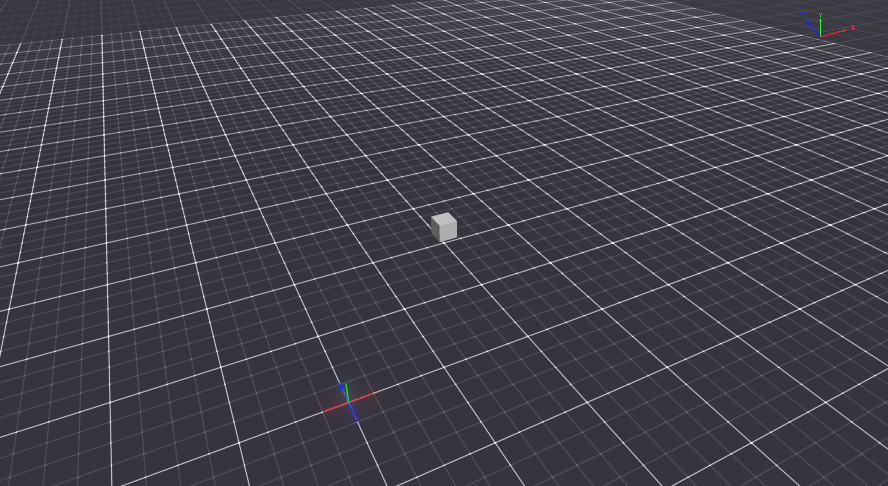
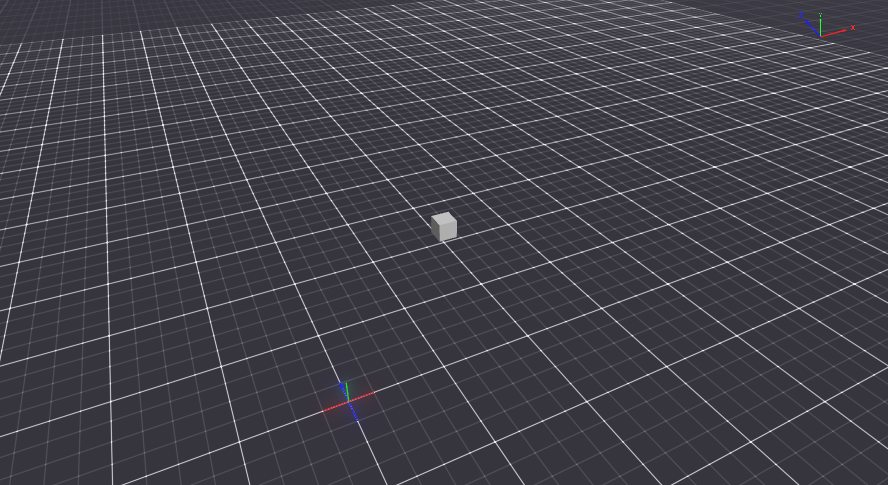
add locomotion

diff --git a/src/scenes/locomotion-test/index.tsx b/src/scenes/locomotion-test/index.tsx
@@ -1,0 +1,287 @@
+import {
+  engine,
+  Transform,
+  MeshRenderer,
+  MeshCollider,
+  Material,
+  TextShape,
+  pointerEventsSystem,
+  InputAction,
+  AvatarLocomotionSettings
+} from '@dcl/sdk/ecs'
+import { Color4, Vector3, Quaternion } from '@dcl/sdk/math'
+import ReactEcs, { Button, Label, type JSX, UiEntity } from '@dcl/sdk/react-ecs'
+import { UiBox } from '../../utils/ui/box'
+import { sceneEntities } from '../../utils/entity'
+
+// Default values (matching Godot's defaults)
+const DEFAULTS = {
+  walkSpeed: 1.5,
+  jogSpeed: 8.0,
+  runSpeed: 11.0,
+  jumpHeight: 1.8,
+  runJumpHeight: 1.8,
+  hardLandingCooldown: 0.0
+}
+
+// Current settings state for UI display
+let currentSettings = {
+  walkSpeed: undefined as number | undefined,
+  jogSpeed: undefined as number | undefined,
+  runSpeed: undefined as number | undefined,
+  jumpHeight: undefined as number | undefined,
+  runJumpHeight: undefined as number | undefined,
+  hardLandingCooldown: undefined as number | undefined,
+  zoneName: 'Default Zone'
+}
+
+// Zone configurations
+const zones = [
+  {
+    name: 'Default Zone',
+    position: Vector3.create(8, 0.1, 4),
+    color: Color4.Gray(),
+    settings: {} // Empty = use all defaults
+  },
+  {
+    name: 'Slow Walk Zone',
+    position: Vector3.create(4, 0.1, 8),
+    color: Color4.create(0.2, 0.5, 0.8, 1),
+    settings: {
+      walkSpeed: 0.5,
+      jogSpeed: 2.0,
+      runSpeed: 4.0
+    }
+  },
+  {
+    name: 'Super Speed Zone',
+    position: Vector3.create(12, 0.1, 8),
+    color: Color4.create(1, 0.8, 0.2, 1),
+    settings: {
+      walkSpeed: 4.0,
+      jogSpeed: 16.0,
+      runSpeed: 25.0
+    }
+  },
+  {
+    name: 'High Jump Zone',
+    position: Vector3.create(8, 0.1, 12),
+    color: Color4.create(0.2, 0.8, 0.3, 1),
+    settings: {
+      jumpHeight: 5.0,
+      runJumpHeight: 8.0
+    }
+  },
+  {
+    name: 'Moon Gravity Zone',
+    position: Vector3.create(4, 0.1, 12),
+    color: Color4.create(0.8, 0.3, 0.8, 1),
+    settings: {
+      walkSpeed: 2.0,
+      jogSpeed: 6.0,
+      runSpeed: 10.0,
+      jumpHeight: 4.0,
+      runJumpHeight: 6.0
+    }
+  },
+  {
+    name: 'Hard Landing Zone',
+    position: Vector3.create(12, 0.1, 12),
+    color: Color4.create(0.8, 0.2, 0.2, 1),
+    settings: {
+      jumpHeight: 3.0,
+      runJumpHeight: 4.0,
+      hardLandingCooldown: 2.0
+    }
+  }
+]
+
+function applySettings(settings: typeof zones[0]['settings'], zoneName: string): void {
+  currentSettings = {
+    walkSpeed: settings.walkSpeed,
+    jogSpeed: settings.jogSpeed,
+    runSpeed: settings.runSpeed,
+    jumpHeight: settings.jumpHeight,
+    runJumpHeight: settings.runJumpHeight,
+    hardLandingCooldown: settings.hardLandingCooldown,
+    zoneName
+  }
+
+  // Apply to root entity
+  if (Object.keys(settings).length === 0) {
+    // Remove component to reset to defaults (only if it exists)
+    if (AvatarLocomotionSettings.has(engine.RootEntity)) {
+      AvatarLocomotionSettings.deleteFrom(engine.RootEntity)
+    }
+  } else {
+    AvatarLocomotionSettings.createOrReplace(engine.RootEntity, settings)
+  }
+
+  console.log(`Applied locomotion settings for zone: ${zoneName}`, settings)
+}
+
+function resetToDefaults(): void {
+  applySettings({}, 'Default Zone')
+}
+
+function createZoneButton(zone: typeof zones[0]): void {
+  // Create floor platform
+  const platform = sceneEntities.addEntity()
+  Transform.create(platform, {
+    position: zone.position,
+    scale: Vector3.create(3, 0.2, 3)
+  })
+  MeshRenderer.setBox(platform)
+  MeshCollider.setBox(platform)
+  Material.setPbrMaterial(platform, {
+    albedoColor: zone.color
+  })
+
+  // Create clickable button on top
+  const button = sceneEntities.addEntity()
+  Transform.create(button, {
+    position: Vector3.create(zone.position.x, zone.position.y + 0.5, zone.position.z),
+    scale: Vector3.create(1.5, 0.8, 1.5)
+  })
+  MeshRenderer.setBox(button)
+  MeshCollider.setBox(button)
+  Material.setPbrMaterial(button, {
+    albedoColor: Color4.lerp(zone.color, Color4.White(), 0.3),
+    emissiveColor: zone.color,
+    emissiveIntensity: 0.5
+  })
+
+  // Add pointer interaction
+  pointerEventsSystem.onPointerDown(
+    {
+      entity: button,
+      opts: {
+        button: InputAction.IA_PRIMARY,
+        hoverText: `Apply: ${zone.name}`,
+        maxDistance: 15,
+        showFeedback: true
+      }
+    },
+    () => {
+      applySettings(zone.settings, zone.name)
+    }
+  )
+
+  // Create label above button
+  const label = sceneEntities.addEntity()
+  Transform.create(label, {
+    position: Vector3.create(zone.position.x, zone.position.y + 1.5, zone.position.z),
+    rotation: Quaternion.fromEulerDegrees(0, 180, 0)
+  })
+  TextShape.create(label, {
+    text: zone.name,
+    fontSize: 2,
+    textColor: Color4.White()
+  })
+}
+
+export function main(): void {
+  console.log('Locomotion Test Scene loaded')
+
+  // Create ground
+  const ground = sceneEntities.addEntity()
+  Transform.create(ground, {
+    position: Vector3.create(8, 0, 8),
+    scale: Vector3.create(16, 0.1, 16)
+  })
+  MeshRenderer.setBox(ground)
+  MeshCollider.setBox(ground)
+  Material.setPbrMaterial(ground, {
+    albedoColor: Color4.create(0.3, 0.3, 0.3, 1)
+  })
+
+  // Create info text
+  const infoText = sceneEntities.addEntity()
+  Transform.create(infoText, {
+    position: Vector3.create(8, 3, 1),
+    rotation: Quaternion.fromEulerDegrees(0, 180, 0)
+  })
+  TextShape.create(infoText, {
+    text: 'Locomotion Settings Test\n\nClick on colored platforms to change movement settings',
+    fontSize: 3,
+    textColor: Color4.White()
+  })
+
+  // Create all zone buttons
+  for (const zone of zones) {
+    createZoneButton(zone)
+  }
+
+  // Don't apply any settings initially - let the explorer use its defaults
+}
+
+function formatValue(value: number | undefined, defaultValue: number): string {
+  if (value === undefined) {
+    return `${defaultValue.toFixed(1)} (default)`
+  }
+  return value.toFixed(1)
+}
+
+export function UI(): JSX.Element {
+  return (
+    <UiBox width={350} height={280} uiTransform={{ padding: 10 }}>
+      <Label
+        value={`Current Zone: ${currentSettings.zoneName}`}
+        fontSize={18}
+        color={Color4.Yellow()}
+        uiTransform={{ height: 30, margin: { bottom: 5 } }}
+      />
+      <UiEntity
+        uiTransform={{ height: 1, width: '100%', margin: { bottom: 5 } }}
+        uiBackground={{ color: Color4.White() }}
+      />
+      <Label
+        value={`Walk Speed: ${formatValue(currentSettings.walkSpeed, DEFAULTS.walkSpeed)} m/s`}
+        fontSize={14}
+        uiTransform={{ height: 24 }}
+      />
+      <Label
+        value={`Jog Speed: ${formatValue(currentSettings.jogSpeed, DEFAULTS.jogSpeed)} m/s`}
+        fontSize={14}
+        uiTransform={{ height: 24 }}
+      />
+      <Label
+        value={`Run Speed: ${formatValue(currentSettings.runSpeed, DEFAULTS.runSpeed)} m/s`}
+        fontSize={14}
+        uiTransform={{ height: 24 }}
+      />
+      <Label
+        value={`Jump Height: ${formatValue(currentSettings.jumpHeight, DEFAULTS.jumpHeight)} m`}
+        fontSize={14}
+        uiTransform={{ height: 24 }}
+      />
+      <Label
+        value={`Run Jump Height: ${formatValue(currentSettings.runJumpHeight, DEFAULTS.runJumpHeight)} m`}
+        fontSize={14}
+        uiTransform={{ height: 24 }}
+      />
+      <Label
+        value={`Hard Landing Cooldown: ${formatValue(currentSettings.hardLandingCooldown, DEFAULTS.hardLandingCooldown)} s`}
+        fontSize={14}
+        uiTransform={{ height: 24 }}
+      />
+      <UiEntity
+        uiTransform={{ height: 1, width: '100%', margin: { top: 5, bottom: 5 } }}
+        uiBackground={{ color: Color4.White() }}
+      />
+      <Button
+        value="Reset to Defaults"
+        fontSize={14}
+        uiTransform={{ height: 35, margin: { bottom: 5 } }}
+        uiBackground={{ color: Color4.create(0.3, 0.5, 0.3, 1) }}
+        onMouseDown={resetToDefaults}
+      />
+      <Label
+        value="Click platforms to test different settings"
+        fontSize={12}
+        color={Color4.Gray()}
+        uiTransform={{ height: 20 }}
+      />
+    </UiBox>
+  )
+}

diff --git a/src/scenes/avatar-shape-test/index.tsx b/src/scenes/avatar-shape-test/index.tsx
@@ -97,6 +97,7 @@ export function main(): void {
     bodyShape: 'urn:decentraland:off-chain:base-avatars:BaseMale',
     wearables: MALE_WEARABLES,
     emotes: [],
+    forceRender: [],
     skinColor: { r: 0.8, g: 0.6, b: 0.5 },
     hairColor: { r: 0.3, g: 0.2, b: 0.1 },
     eyeColor: { r: 0.2, g: 0.5, b: 0.7 }
@@ -114,6 +115,7 @@ export function main(): void {
     bodyShape: 'urn:decentraland:off-chain:base-avatars:BaseMale',
     wearables: [currentShowOnlyWearable],
     emotes: [],
+    forceRender: [],
     showOnlyWearables: true,
     skinColor: { r: 0.9, g: 0.7, b: 0.6 },
     hairColor: { r: 0.8, g: 0.1, b: 0.1 },
@@ -136,6 +138,7 @@ export function main(): void {
     bodyShape: 'urn:decentraland:off-chain:base-avatars:BaseMale',
     wearables: MALE_WEARABLES,
     emotes: [],
+    forceRender: [],
     skinColor: { r: 0.6, g: 0.4, b: 0.3 },
     hairColor: { r: 0.1, g: 0.1, b: 0.1 },
     eyeColor: { r: 0.1, g: 0.3, b: 0.1 },
@@ -164,6 +167,7 @@ export function main(): void {
       'urn:decentraland:off-chain:base-avatars:bun_shoes'
     ],
     emotes: [],
+    forceRender: [],
     skinColor: { r: 0.95, g: 0.75, b: 0.65 },
     hairColor: { r: 0.9, g: 0.6, b: 0.1 },
     eyeColor: { r: 0.4, g: 0.2, b: 0.1 }

diff --git a/src/scenes/main-scene/scenes.ts b/src/scenes/main-scene/scenes.ts
@@ -25,7 +25,7 @@ import {
   MainSceneUi as AnimatorSceneUi,
   main as AnimatorSceneMain
 } from '../animator'
-import {main as GltfNodeModifierStressMain } from '../gltf-node-modifier-stress'
+import { main as GltfNodeModifierStressMain } from '../gltf-node-modifier-stress'
 import {
   UI as AnimatedBannersUi,
   main as AnimatedBannersMain
@@ -38,6 +38,10 @@ import {
   UI as AvatarStressTestUi,
   main as AvatarStressTestMain
 } from '../avatar-stress-test'
+import {
+  UI as LocomotionTestUi,
+  main as LocomotionTestMain
+} from '../locomotion-test'
 
 export type SceneItem = {
   name: string
@@ -48,6 +52,12 @@ export type SceneItem = {
 }
 
 export const scenesOptions: SceneItem[] = [
+  {
+    name: 'Locomotion Test',
+    mainFn: LocomotionTestMain,
+    ui: LocomotionTestUi,
+    default: true
+  },
   {
     name: 'Empty',
     mainFn: undefined,
@@ -128,7 +138,6 @@ export const scenesOptions: SceneItem[] = [
   {
     name: 'Avatar Stress Test',
     mainFn: AvatarStressTestMain,
-    ui: AvatarStressTestUi,
-    default: true
+    ui: AvatarStressTestUi
   }
 ]

diff --git a/src/scenes/avatar-stress-test/index.tsx b/src/scenes/avatar-stress-test/index.tsx
@@ -206,6 +206,7 @@ function spawnAvatar(position: Vector3): AvatarInstance {
     bodyShape,
     wearables,
     emotes: [],
+    forceRender: [],
     skinColor: randomColor3(),
     hairColor: randomColor3(),
     eyeColor: randomColor3()
@@ -237,7 +238,7 @@ function spawnAvatarFromProfile(position: Vector3, profile: ProfileAvatar): Avat
     name: profile.name,
     bodyShape: profile.bodyShape,
     wearables: profile.wearables,
-    // forceRender: profile.forceRender,
+    forceRender: profile.forceRender,
     emotes: profile.emotes.map((e) => e.urn),
     skinColor: profile.skinColor,
     hairColor: profile.hairColor,

diff --git a/src/scenes/main-scene/ui.tsx b/src/scenes/main-scene/ui.tsx
@@ -26,7 +26,7 @@ export function setupUi(element?: () => JSX.Element, extended?: boolean): void {
   }
 }
 
-let sceneIndex = 0
+let sceneIndex = -1
 export function setChangeScene(newSceneIndex: number): void {
   console.log('setChangeScene to scene', newSceneIndex)
   if (newSceneIndex === sceneIndex) return
